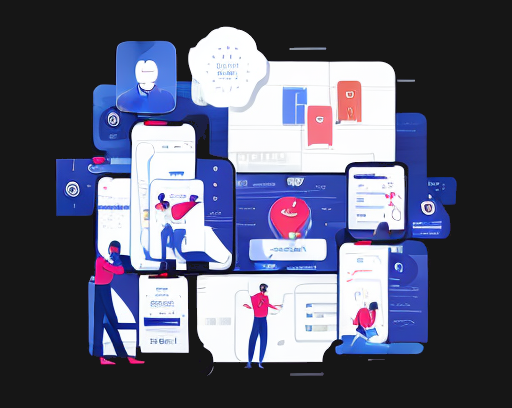
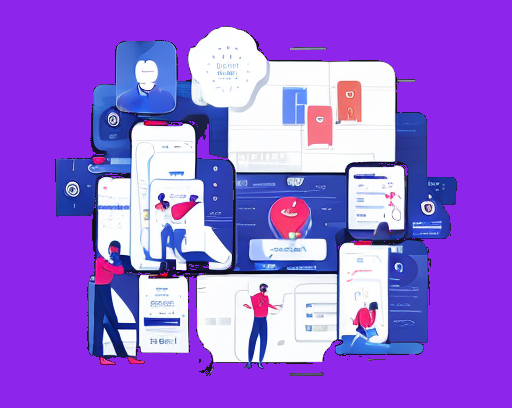
css for homepage complete

diff --git a/react-app/src/components/Homepage/index.js b/react-app/src/components/Homepage/index.js
@@ -5,21 +5,26 @@ import OpenModalButton from "../OpenModalButton";
 import SignupFormModal from "../SignupFormModal";
 import LoginFormModal from "../LoginFormModal";
 import loggedoutimage from "../../images/loggedout-homepage-image.png";
+import "./homepage.css";
 
 function LoggedOutLandingPage() {
    return (
-      <div>
+      <div className="loggedout-wholepage">
          <div className="loggedout-topdiv">
             <div className="loggedout-topdiv-leftside">
-               <p>About this project</p>
-               <p>About Me</p>
-               <p>Contact me?</p>
+               <p className="loggedout-topdiv-leftside-links">
+                  About this project
+               </p>
+               <p className="loggedout-topdiv-leftside-links">About Me</p>
+               <p className="loggedout-topdiv-leftside-links">Contact me?</p>
             </div>
             <div className="loggedout-topdiv-rightside">
                <OpenModalButton
+                  className="joinNowButton"
                   buttonText="Join Now"
                   modalComponent={<SignupFormModal />}
                />
+
                <OpenModalButton
                   buttonText="Log In"
                   modalComponent={<LoginFormModal />}
@@ -29,24 +34,28 @@ function LoggedOutLandingPage() {
          <h1 className="loggedout-midpage">How does BitBabble work?</h1>
          <div className="loggedout-bottompage">
             <div className="loggedout-bottompage-leftside">
-               <h2>Getting started with BitBabble</h2>
-               <p>
+               <h2 className="loggedout-bottompage-leftside-gettingstarted">
+                  Getting started with BitBabble
+               </h2>
+               <p className="loggedout-bottompage-leftside-paragraph">
                   As a new user, you can create and manage bytespaces and
                   bytestreams on BitBabble. Sign up as a new user to generate
                   your first bytespace or to join a public one. You can always
                   create another whenever you need one!
                </p>
             </div>
-            <img
-               src={loggedoutimage}
-               alt="bytespaces and bytestreams"
-               id="loggedout-image"
-            />
+            <div className="loggedout-bottompage-rightside">
+               <img
+                  src={loggedoutimage}
+                  alt="bytespaces and bytestreams"
+                  id="loggedout-image"
+               />
+            </div>
          </div>
-         <div className="bottom-navbar">
-            <p>LinkedIn placeholder</p>
-            <p>GitHub placeholder</p>
-            <p>download resume placeholder</p>
+         <div className="bottom-footer">
+            <p className="bottom-footer-tags">LinkedIn placeholder</p>
+            <p className="bottom-footer-tags">GitHub placeholder</p>
+            <p className="bottom-footer-tags">download resume placeholder</p>
          </div>
       </div>
    );

diff --git a/react-app/src/components/Homepage/homepage.css b/react-app/src/components/Homepage/homepage.css
@@ -1,0 +1,124 @@
+body {
+   background-color: #8e25eb;
+}
+
+.loggedout-topdiv {
+   display: flex;
+   justify-content: space-between;
+}
+
+.loggedout-topdiv-leftside {
+   width: 500px;
+   display: flex;
+   flex-direction: row;
+   justify-content: space-evenly;
+   margin-left: 75px;
+   margin-top: 25px;
+}
+
+.loggedout-topdiv-rightside {
+   display: flex;
+   width: 400px;
+   justify-content: space-evenly;
+   margin-right: 150px;
+   margin-top: 25px;
+}
+
+.loggedout-topdiv-leftside-links {
+   color: #ffffff;
+   font-size: 16px;
+   font-family: "Source Sans Pro";
+   font-weight: 500;
+   line-height: 21px;
+}
+
+.loggedout-topdiv-rightside button {
+   cursor: pointer;
+   width: 153px;
+   height: 60px;
+   padding: 0px 8px;
+   border: 0;
+   box-sizing: border-box;
+   border-radius: 24px;
+   background-color: #ffffff;
+   color: #161616;
+   font-size: 20px;
+   font-family: "Source Sans Pro";
+   font-weight: 700;
+   line-height: 26px;
+   outline: none;
+}
+
+.loggedout-midpage {
+   color: #ffffff;
+   font-size: 60px;
+   font-family: "Source Sans Pro";
+   font-weight: 700;
+   line-height: 70px;
+   text-align: center;
+   margin-top: 100px;
+   margin-bottom: 100px;
+}
+
+.loggedout-bottompage {
+   display: flex;
+   flex-direction: row;
+   margin-bottom: 59px;
+}
+
+.loggedout-bottompage-leftside {
+   display: flex;
+   flex-direction: column;
+   width: 60%;
+}
+
+.loggedout-bottompage-leftside-gettingstarted {
+   display: flex;
+   justify-content: center;
+   color: #ffffff;
+   font-size: 40px;
+   font-family: "Source Sans Pro";
+   font-weight: 700;
+   line-height: 50px;
+   margin-bottom: 0px;
+   margin-left: 90px;
+}
+
+.loggedout-bottompage-leftside-paragraph {
+   width: 500px;
+   color: #ffffff;
+   font-size: 20px;
+   font-family: "Source Sans Pro";
+   line-height: 25px;
+   margin-left: 240px;
+}
+
+.loggedout-bottompage-rightside {
+   margin-top: 25px;
+   margin-right: 250px;
+}
+#loggedout-image {
+   background-image: url(../../images/loggedout-homepage-image.png);
+   width: 525px;
+   height: 400px;
+   border-radius: 24px;
+   background-position: center center;
+   background-size: cover;
+   background-repeat: no-repeat;
+}
+
+.bottom-footer {
+   display: flex;
+   justify-content: space-evenly;
+   width: 100%;
+   background-color: #323232;
+   margin: 0;
+}
+
+.bottom-footer-tags {
+   color: #ffffff;
+   font-size: 12px;
+   font-family: "Source Sans Pro";
+   line-height: 15px;
+   text-align: center;
+}

diff --git a/react-app/src/App.js b/react-app/src/App.js
@@ -20,7 +20,7 @@ function App() {
 
    return (
       <>
-         <Navigation isLoaded={isLoaded} />
+         {user && <Navigation isLoaded={isLoaded} />}
          {isLoaded && (
             <Switch>
                <Route path="/user/:userId/bytespaces/:bytespaceId/bytestream/:bytestreamId"></Route>
